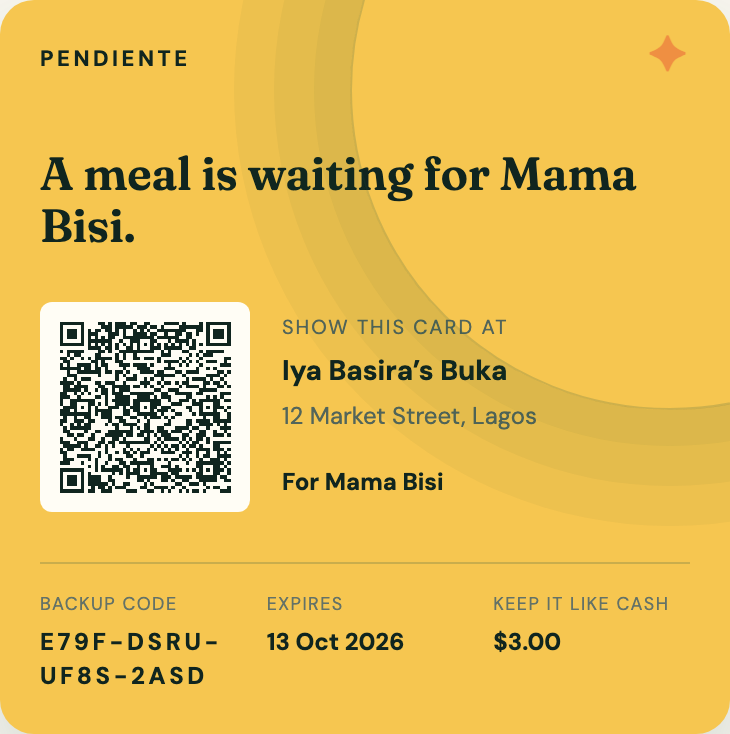
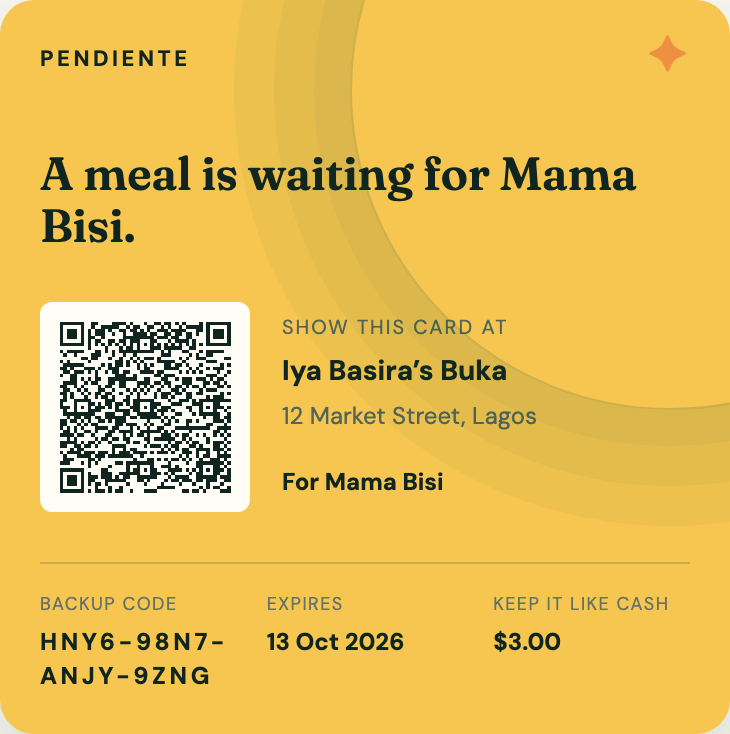
finish the verified build report

Changed region(s): [[0.0603, 0.4196, 0.3315, 0.6894], [0.0603, 0.8392, 0.3014, 0.9292]]

diff --git a/docs/REPORT.md b/docs/REPORT.md
@@ -1,44 +1,53 @@
-# Build report — 13 October 2026
+# Pendiente build report
 
-The build is not signed off. Automated checks pass, but the full wallet-to-stall journey has not run on the corrected locker.
+The reviewed testnet build is deployed. Five testnet meals were served and two unused meals returned. No real-network meal is claimed. Physical phone testing and the owner's recording remain outstanding.
 
-## Defects
+## D1–D7
 
-| Item | Status | Code |
+| Item | Result | Fix |
 | --- | --- | --- |
-| D1 | Implemented; live buyer journey still unverified | `server/stellar.mjs:76`, `server/index.mjs:142`, `src/App.tsx:176` |
-| D2 | Mapping and admin calls implemented; demo stall registration awaits payout approval | `server/index.mjs:49`, `scripts/seed-stall.mjs:6` |
-| D3 | Partial: purchase amount and expiry copied from Stellar; returns use ledger time. Public reads and counter checks still use cached status and a local expiry check | `server/index.mjs:173`, `server/index.mjs:222`, `server/index.mjs:294` |
-| D4 | Fixed in source and tested: random QR secret, separate 80-bit backup, two fingerprints | `src/lib/crypto.ts:23`, `locker/src/lib.rs:154`, `locker/src/lib.rs:210` |
-| D5 | TTL renewal added to instance, stall and meal paths; daily renewal job added | `locker/src/lib.rs:264`, `locker/src/lib.rs:340`, `server/index.mjs:310` |
-| D6 | Fake counts and links removed; local practice labelled. README screenshot remains pending | `src/lib/api.ts:7`, `src/components/Layout.tsx:24`, `README.md:20` |
-| D7 | Paginated closed meals and private fields implemented; photos stored as files. Waiting total still derives from reconciled DB rows rather than a full chain inventory | `server/index.mjs:230`, `server/index.mjs:96` |
+| D1 | Fixed and exercised on testnet. Buyer signs; identical signed-payment replay returns the same meal. Credentials remain available during a retry. | `server/stellar.mjs:90`, `src/App.tsx:173` |
+| D2 | Fixed. Demo stall 1 has its own testnet payout. Admin creation/update uses the stored chain ID and validates the payout/trustline. | `server/index.mjs:49`, `scripts/seed-stall.mjs:6` |
+| D3 | Fixed. Purchase price/expiry come from Stellar. Public meal reads refresh status; counter checks and returns use ledger time. Serving relies on the locker's own current checks. | `server/index.mjs:100`, `server/index.mjs:159` |
+| D4 | Fixed. Independent random QR secret, 16-character backup, separate fingerprints, v2 cards, and full-card download/share. | `src/lib/crypto.ts:23`, `locker/src/lib.rs:154` |
+| D5 | Fixed. Instance/stall/meal TTL renewal and daily storage renewal. | `locker/src/lib.rs:264`, `server/index.mjs:320` |
+| D6 | Fixed. No fake waiting count or payment link; local practice is labelled; README uses a genuine v2 screenshot. | `src/lib/api.ts:7`, `docs/card-scan.png` |
+| D7 | Fixed. Closed meals are paginated at 20, names are initials, totals are read from Stellar, and photos are files with metadata stripping. | `server/index.mjs:247`, `server/photos.mjs:3`, `server/stellar.mjs:181` |
 
-## Checks run
+## Required checks
 
 `npm run check` exited 0:
 
 ```text
-Plain words check passed (157 README words, 76 Under the hood words).
+Plain words check passed (158 README words, 79 Under the hood words).
 tsc -b && vite build
 993 modules transformed.
-built in 1.24s
+built in 1.61s
 ```
 
-`npm run smoke:api` exited 0 and closed its server:
+`npm run smoke:api` exited 0. It uses an in-memory database, temporary photo directory, and only the named fakeChain module substitute. Its HTTP server closes on completion.
+
+```text
+Request failed: POST /api/meals/meal-1/serve (PayloadTooLargeError)
+reconciled meal-2 to Served
+```
+
+Those two lines are expected: the oversized upload is refused and the interrupted serve is recovered.
 
 ```json
-{"ok":true,"checks":["chain stall required","prepare and signed submit","80-bit backup match","wrong code refused","serve once","second serve refused","public card data hidden","private proof list"]}
+{"ok":true,"checks":["chain stall required","prepare and signed submit","80-bit backup match","ten wrong codes refused","wrong stall refused","early and late invalid returns refused","serve once","second serve refused","public card data hidden","private proof list","20 MB upload refused","fake JPEG and PNG refused","location metadata stripped","server restart recovers photo and date without second payment"]}
 ```
 
-`cargo test --manifest-path locker/Cargo.toml` exited 0:
+The suite also asserts refusal of the reviewer's empty WebP file and removal of an unconfirmed payment link.
+
+`cargo test` on the VPS exited 0:
 
 ```text
 running 20 tests
 test result: ok. 20 passed; 0 failed; 0 ignored; 0 measured; 0 filtered out
 ```
 
-`stellar contract build` ran on the VPS with Rust loaded and exited 0:
+`stellar contract build` on the VPS exited 0:
 
 ```text
 Wasm Size: 17222 bytes optimized
@@ -47,50 +56,101 @@ Exported Functions: 11 found
 Build Complete
 ```
 
-The exact broad text scan returned `FAIL`: it matches compressed Git objects and an npm integrity string. The source-only scan returned no matches. Package integrity was preserved.
+The broad repository text scan returns `FAIL` because it also matches compressed Git objects, image bytes, and an npm integrity string. The authored-source scan had no matches. Integrity strings and Git history were preserved. The author/trailer scan returns `ok`. The private-key scan and `git diff --check` had no findings.
 
-The commit-author and trailer scan returned `ok`.
+## Live checks and values
 
-## Verified network setup
+Final public health returned ledger 5175268. Chain-derived proof totals were:
+
+```json
+{"bought":7,"served":5,"returned":2,"waiting":0,"paidCents":1500,"returnedCents":600}
+```
 
 - Locker: `CCEWVBHEO7K6GH2C2WVB6RBGPWASFJGGLC67XBYA3VVE6KF6CCLAMNWQ`
 - Play-USDC: `CCOLZD3JWJPN4UWS64TO3ZNJQYYYOJQ3QAUVW47GOIVLMXP6HXQ73K6Z`
-- [Token deployment](https://stellar.expert/explorer/testnet/tx/8257e17e3343c49cfb8f497166638c8001f28a8436137e5e5425bea1f3b204c2)
-- [Locker deployment](https://stellar.expert/explorer/testnet/tx/4efad9801383b18e4a266863350db0ad659d8f96c2e8bec454db01e0dca8ffca)
-- [Locker setup](https://stellar.expert/explorer/testnet/tx/f27a8e0b0c56ef1ecd85d6e5d067c29c60b2e6890dfbab2ec1e5980e73ecbade)
+- Stall payout: `GA2O376KN75M436CZB4RG6H6FI3N5RZZGBATG5KR4UL5PGMZCUPUWVJT`
+- Secret files are outside the repository and mode 600.
 
-Health read after deployment:
-
-```json
-{"ok":true,"network":"testnet","contract":"CCEWVBHEO7K6GH2C2WVB6RBGPWASFJGGLC67XBYA3VVE6KF6CCLAMNWQ","ledger":5165372}
-```
-
-Exact chain reads and setup commands are in `VERIFIED.md`. There are no verified meal links on the corrected locker yet.
-
-## Commits
+The initial full live test printed:
 
 ```text
+PASS: QR serve, backup serve, automatic return, wrong code refusal
+```
+
+The final timing/replay test printed:
+
+```text
+buy API seconds 17.65
+serve API seconds 6.91
+PASS: measured buyer payment and QR serve
+```
+
+The buy timing includes preparing, buying, and replaying the same signed payment. It is not a five-second buying claim. Serve fees measured 0.0017041 XLM; the first buy cost 0.0992793 XLM including storage. No dollar conversion is claimed.
+
+Every deployment, buy, serve and verified-return link is recorded in [VERIFIED.md](VERIFIED.md). The original four-meal test output is pasted there in full. Five served testnet meals include [QR](https://stellar.expert/explorer/testnet/tx/85f5303ca0aea3f059f8c19a2302b61bf9ba8c9b07af43c8eb0a1e12d65aad9c), [backup code](https://stellar.expert/explorer/testnet/tx/b2a8e9b8f3c36a65d2eeba808106937fcc07ab917272462d720707266a042164), and the [6.91-second serve](https://stellar.expert/explorer/testnet/tx/c5a2cf6db57a066fb1bb47910e7cbc913c23a0274e769c74775a5f5154856a7a). The first [automatic return](https://stellar.expert/explorer/testnet/tx/ec2121068ffa224024e597a3d662246a75fce85e16064a798ea292d5bb5595f0) restored the buyer's full play-USDC balance.
+
+The deployed browser check printed:
+
+```text
+PASS: mobile-size local practice, full-card download, formatted backup, one-use refusal, Spanish, genuine v2 screenshot
+```
+
+This used headless Chrome with a phone-sized viewport. It is not a physical Android/iPhone or Freighter test.
+
+## Independent review
+
+The separate Breaker reproduced and reviewed fixes for lost buyer responses, interrupted serving, unconfirmed links, local fallback during testnet errors, and malformed image files. Independent API checks passed. Each reported simple JPEG, PNG and WebP bypass has a regression assertion.
+
+Image handling validates structure and strips common location metadata; it is not a full image-pixel decoder. Buyer retry recovery retains credentials in memory while the payment page remains open. The public record proves card possession and payment, not physical food delivery.
+
+## Remaining owner work
+
+1. Complete the actual Freighter/phone journey, scan a printed card, and attach a plate-only photo.
+2. Verify physical Android Chrome and iPhone Safari, camera access and actual 4G loading. Camera fallback is the typed code.
+3. Record/approve the video and language read-aloud check.
+4. Publish the repository yourself and add the repo/video links to the submission copy.
+
+The optional served-email path exists but has not been exercised with configured Postmark credentials. No public-network deployment or fiat cash-out integration was added. Nothing was pushed.
+
+## Setup corrections and limits
+
+The supplied token reported `native`; it was XLM, not USDC. The corrected testnet token is demo-issued play-USDC, not Circle-issued USDC. The old failed mint returned `HostError: Error(Storage, MissingValue)`; that configuration was replaced and the corrected live journeys passed.
+
+The exact broad text-scan command cannot safely treat binary Git files and cryptographic integrity strings as authored words. That check still reports false positives; it was not weakened.
+
+The owner supplies the video. No video link, physical plate photograph, mainnet payment, or device-test result was invented.
+
+## Git log before this report's final save
+
+```text
+798063e let testnet links override local practice
+c53e209 reject empty WebP frames and retry failed reads
+6e67e3b publish measured testnet results and submission copy
+78763a5 keep card codes on retries and check the phone layout
+4d18116 recover interrupted meal payments and check photos
+651b381 record checks and pending demo approval
 ef414c7 record verified testnet setup and remaining checks
 f74c7f6 share full meal cards and show buyer balances
 368767e prepare buyer payments and store real meal records
 6d837fd check both meal card codes and renew storage
 6a392cd protect internal and runtime files
+9b9ca5f separate server fee account
+e66a3d7 add served email notice
+51ed07f deploy practice site with https
+b250ee4 connect practice flow to testnet
+c7e0987 tighten locker expiry rules
+4b955b6 label wallet modes
+896799d add wallet integration boundary
+0b9afb9 localize remaining screen text
+740a340 add stall photo uploads
+2550431 document locker commands
+aec15a0 pin site dependencies
+805388b prepare stellar locker build
+9c505d0 test locker safety rules
+0520426 fix locker hash check
+cbdcfe5 keep API fallback safe
+c75fe0b mark live link as pending
+98d1eff tighten practice safeguards
+e80d77a keep buyer email private
+434ced1 start Pendiente build
 ```
-
-Nothing was pushed.
-
-## Remaining work and owner choice
-
-The spec explicitly requires the owner's decision before creating the stall payout account. Choose a separate testnet-only payout account or supply its public address. No payout account was created while that choice was pending.
-
-After approval: register the stall, run `scripts/e2e-testnet.mjs`, retain all actual meal links, and complete the Freighter phone run with a plate photo. The runner uses throwaway buyer keys in memory. Screenshot, real-phone checks, measured timing and fees, independent sign-off, and final submission copy remain pending.
-
-Photo handling still needs an independent upload check for location data. Browser-generated JPEGs omit location data, but the server must also strip it from direct uploads. The served email is optional and has not been exercised.
-
-## Problems found in the supplied setup
-
-The old token reported symbol `native`; it was XLM, not USDC. An attempted mint failed with `HostError: Error(Storage, MissingValue)`. The corrected demo now uses an admin-issued USDC test asset, not Circle-issued USDC.
-
-The broad repository text scan also examines binary Git files and cryptographic integrity strings. Those are not authored words and cannot be edited safely to satisfy that scan.
-
-A QR secret proves card possession. It cannot prove a physical plate was handed over. The security notes now state that limit.

diff --git a/docs/VERIFIED.md b/docs/VERIFIED.md
@@ -83,6 +83,17 @@ The RPC returned SUCCESS for the first buy, first QR serve, typed-code serve and
 
 Fees were read with `rpc.Server.getTransaction(hash)`, from `resultXdr.fee_charged`. No dollar conversion or universal fee claim is made.
 
+## Final public check
+
+The fourth meal, used to test a wrong code, later [returned automatically](https://stellar.expert/explorer/testnet/tx/de00ea623fce8b8857345cde67dcc05a44ae79862b4e4477831167cda2038838).
+
+The public `/api/health` and `/api/proof` returned:
+
+```json
+{"ok":true,"network":"testnet","contract":"CCEWVBHEO7K6GH2C2WVB6RBGPWASFJGGLC67XBYA3VVE6KF6CCLAMNWQ","ledger":5175268}
+{"bought":7,"served":5,"returned":2,"waiting":0,"paidCents":1500,"returnedCents":600}
+```
+
 ## Corrected token setup
 
 The earlier token `CDLZFC3SYJYDZT7K67VZ75HPJVIEUVNIXF47ZG2FB2RMQQVU2HHGCYSC` reports symbol `native`. It is XLM, not USDC. The earlier locker is superseded and must not be presented as a dollar demo.
